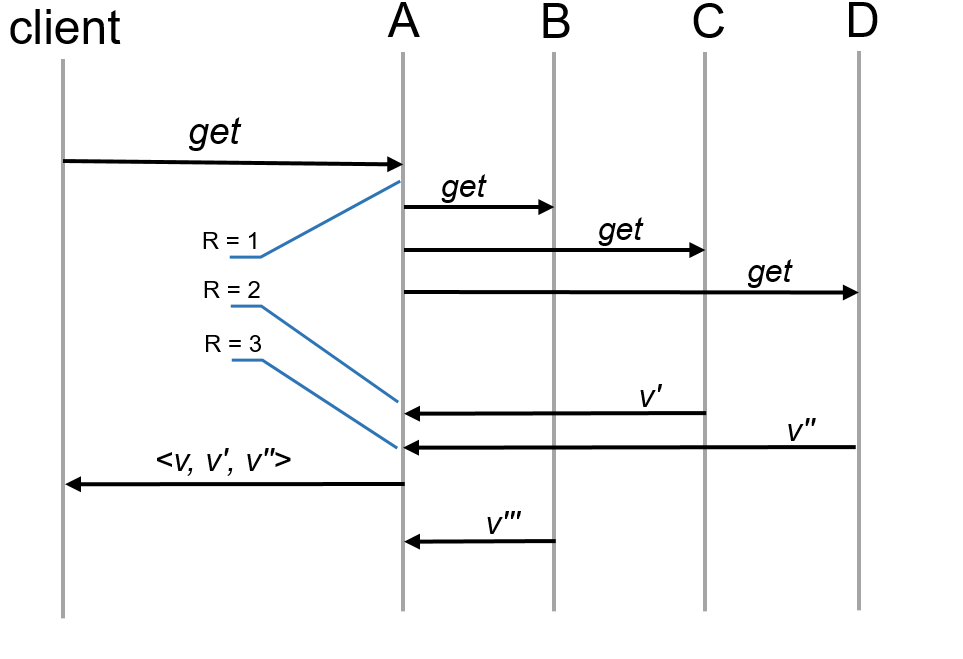
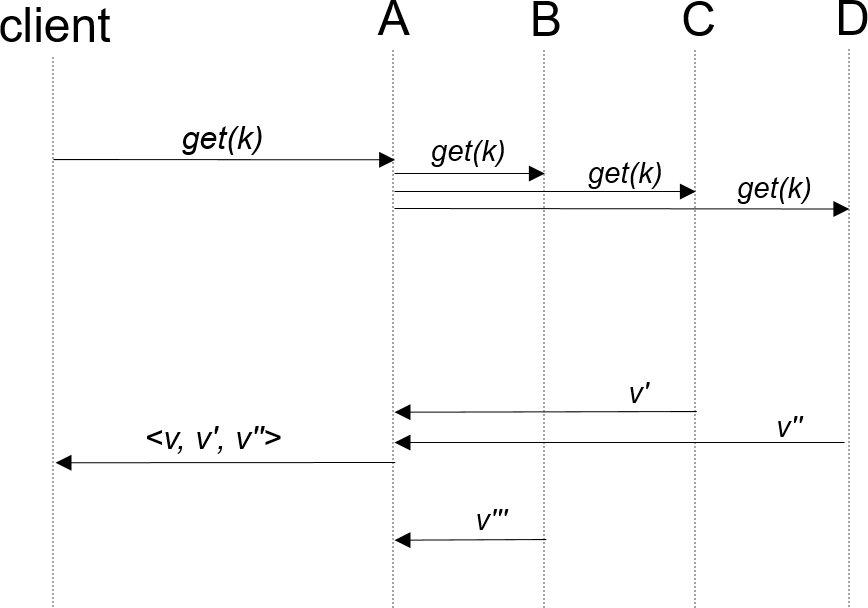
Modifica immagini

diff --git a/dynamo/dynamo.tex b/dynamo/dynamo.tex
@@ -60,21 +60,35 @@
 \begin{frame}
   \frametitle{Partizionamento (I)}
   \begin{itemize}
-  \item Chiavi e valori sono visti come semplici array di byte.
-  \item Si usa MD5 a 128 bit per indicizzare le chiavi.
-  \item Tecnica del \alert{consistent hashing} per la distribuzione.
+  \item Si usa la tecnica del \alert{consistent hashing}.
   \end{itemize}
+  \begin{block}{Consistent hashing}
+    \begin{itemize}
+    \item Tabella hash richiusa ad anello.
+    \item Nodi posizionati casualmente sull'anello a formare intervalli.
+    \item Ogni nodo memorizza le chiavi nell'intervallo tra lui e il precedente.
+    \end{itemize}
+  \end{block}
   \begin{figure}
   \centering
-  \includegraphics[scale=0.60]{dynamo/consistent-hashing-ring.png}
+  \includegraphics[scale=0.25]{dynamo/consistent-hashing-ring.png}
   \end{figure}
 \end{frame}
 
 
 \begin{frame}
   \frametitle{Partizionamento (II)}
-  Dynamo propone una variante del consistent hashing: \\
-  Si utilizzano i \alert{nodi virtuali} (tokens).
+  \begin{columns}
+  \begin{column}{0.5\textwidth}
+  Dynamo propone una variante del consistent hashing, utilizzo di \alert{nodi virtuali} (tokens).
+  \end{column}
+  \begin{column}{0.5\textwidth}
+  \begin{figure}
+  \centering
+  \includegraphics[scale=0.23]{dynamo/virtual-node.png}
+  \end{figure}
+  \end{column}
+  \end{columns}
   \begin{block}{Vantaggi}
   \begin{itemize}
   \item Dati distribuiti uniformemente.
@@ -82,8 +96,8 @@
   \item Bilanciamento del carico a seguito di un fallimento.
   \item Si tiene conto dell'eterogeneità delle macchine.
   \end{itemize}
-  \end{block}
   $\longrightarrow$ In poche parole si ottiene una forte \alert{scalabilità}.
+  \end{block}
 \end{frame}
 
 
@@ -97,7 +111,7 @@
   \end{itemize}
   \begin{figure}
   \centering
-  \includegraphics[scale=0.3]{dynamo/replication.png}
+  \includegraphics[scale=0.35]{dynamo/replication.png}
   \end{figure}  
 \end{frame}
 
@@ -179,7 +193,7 @@
   $N = 4, W = 2, R = 3$
   \begin{figure}
   \centering
-  \includegraphics[scale=0.38]{dynamo/get.png}
+  \includegraphics[scale=0.4]{dynamo/get.png}
   \end{figure}
 \end{frame}
 
@@ -189,7 +203,7 @@
   $N = 4, W = 2, R = 3$
   \begin{figure}
   \centering
-  \includegraphics[scale=0.38]{dynamo/put.png}
+  \includegraphics[scale=0.4]{dynamo/put.png}
   \end{figure}
 \end{frame}
 
@@ -252,7 +266,7 @@
 
 \begin{frame}
   \frametitle{Gestione Fallimenti e Sincronia Repliche (II)}
-    In caso di fallimento di un semplente è necessario un mezzo per stabilire se due repliche sono sincronizzare:
+    In caso di fallimento di un supplente è necessario un mezzo per stabilire se due repliche sono sincronizzare:
     \begin{block}{Merkle tree}
     \begin{columns}
     \begin{column}{0.4\textwidth}
@@ -295,39 +309,39 @@
 \end{frame}
 
 
-\begin{frame}
-  \frametitle{Alcuni risultati}
-  \begin{itemize}
-  \item Dynamo è progettato per bilanciare consistency e availability.
-  \item Come impattano differenti tipi di fallimenti sulla coerenza?
-  \end{itemize}
+%% \begin{frame}
+%%   \frametitle{Alcuni risultati}
+%%   \begin{itemize}
+%%   \item Dynamo è progettato per bilanciare consistency e availability.
+%%   \item Come impattano differenti tipi di fallimenti sulla coerenza?
+%%   \end{itemize}
   
-  \begin{table}[ht]
-  \begin{center} 
-  \begin{tabular}{| r | r |}
-  \hline  
-  \textbf{\# Versioni} & \textbf{\% Client} \\   
-  \hline
-  \rowcolor{lightgray}
-  1                              & 99.94 \\
-  \hline
-  2                              & 0.00057 \\
-  \hline
-  \rowcolor{lightgray}
-  3                              & 0.00047 \\
-  \hline
-  4                              & 0.00009 \\ 
-  \hline
-  \end{tabular}
-  \end{center}
-  \end{table}
+%%   \begin{table}[ht]
+%%   \begin{center} 
+%%   \begin{tabular}{| r | r |}
+%%   \hline  
+%%   \textbf{\# Versioni} & \textbf{\% Client} \\   
+%%   \hline
+%%   \rowcolor{lightgray}
+%%   1                              & 99.94 \\
+%%   \hline
+%%   2                              & 0.00057 \\
+%%   \hline
+%%   \rowcolor{lightgray}
+%%   3                              & 0.00047 \\
+%%   \hline
+%%   4                              & 0.00009 \\ 
+%%   \hline
+%%   \end{tabular}
+%%   \end{center}
+%%   \end{table}
 
-  \begin{itemize}
-  \item La presenza di versioni divergenti è rara.
-  \item L'esperimento ha evidenziato che la principale causa di incoerenze è un numero troppo eleveto di scritture concorrenti, spesso
-    effettuate da bot e non da umani.
-  \end{itemize}
-\end{frame}
+%%   \begin{itemize}
+%%   \item La presenza di versioni divergenti è rara.
+%%   \item L'esperimento ha evidenziato che la principale causa di incoerenze è un numero troppo eleveto di scritture concorrenti, spesso
+%%     effettuate da bot e non da umani.
+%%   \end{itemize}
+%% \end{frame}
 
 
 \begin{frame}
